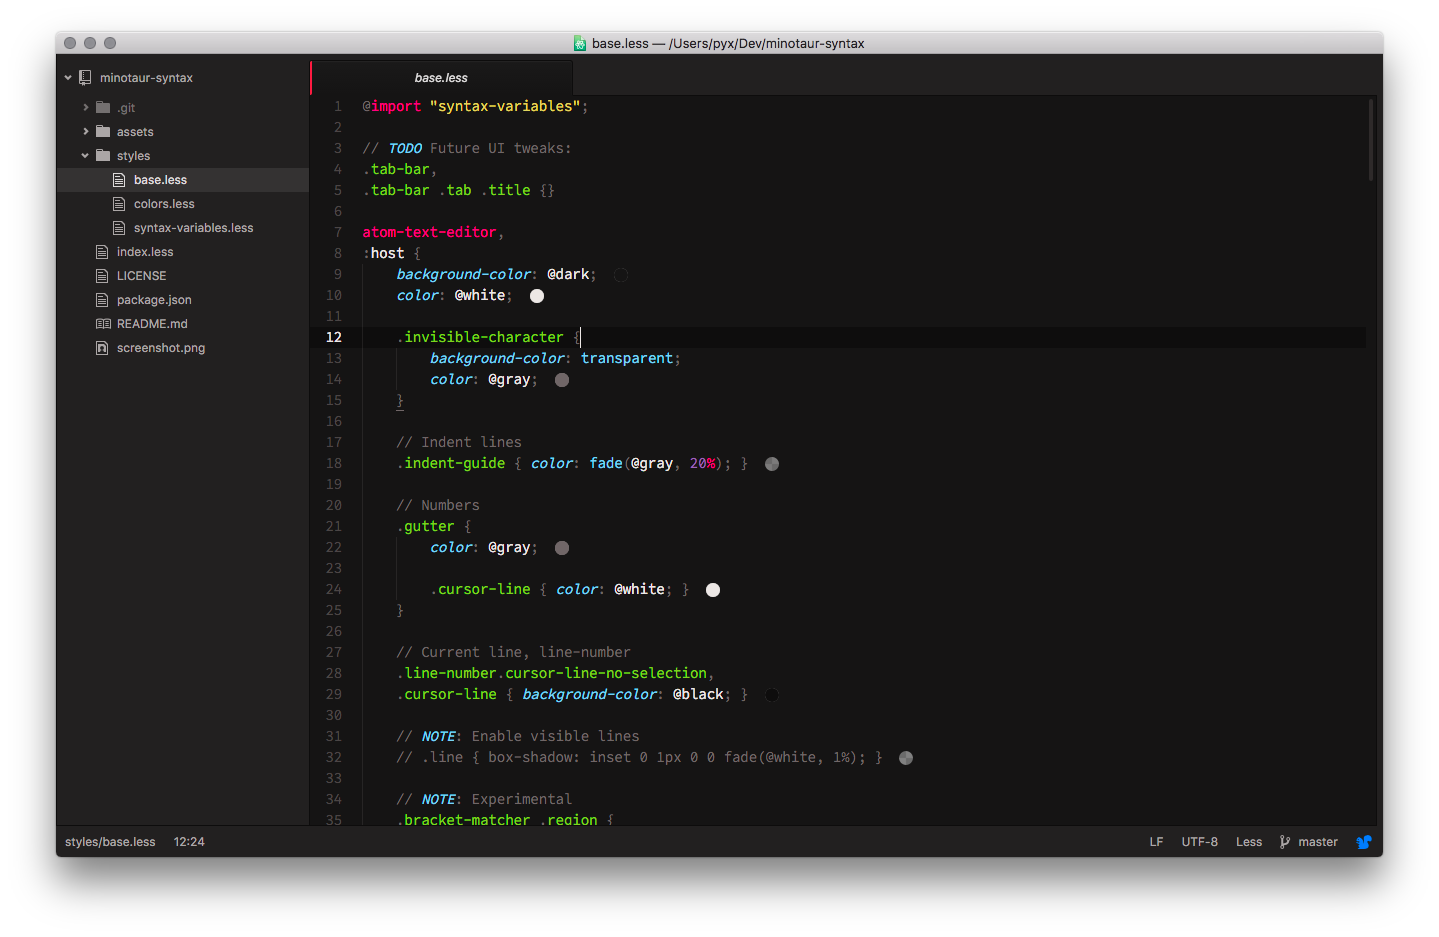
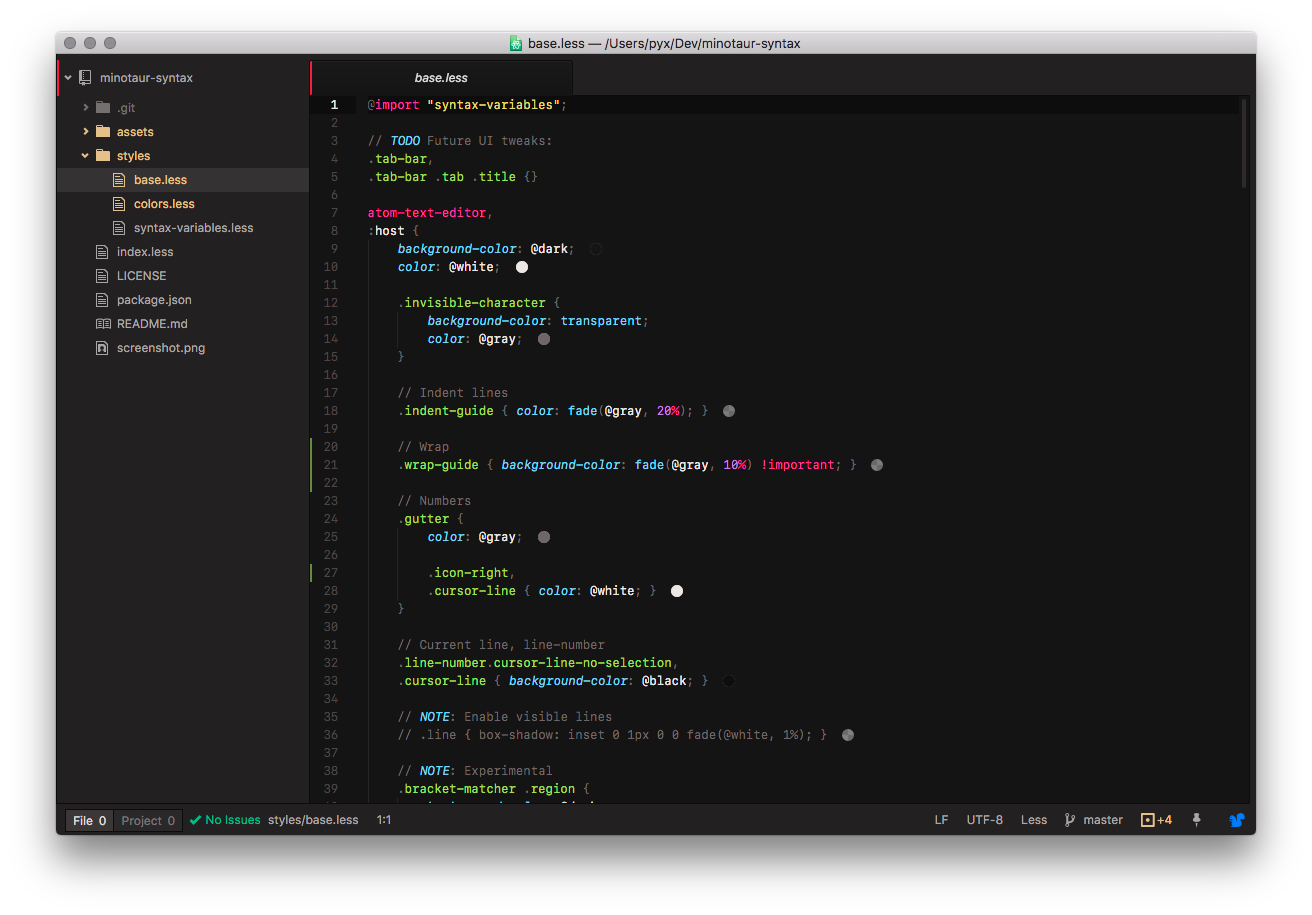
Outrun colors

diff --git a/styles/colors.less b/styles/colors.less
@@ -1,28 +1,11 @@
-// #0E0D0D
-// #151414
-// #6F6767
-// #EBE7E5
-
-// #F34D4B
-// #C33332
-// #94C82B
-// #79B00C
-// #E3D167
-// #E09C51
-// #AD9AC3
-// #9170B5
-// #89D2F2
-// #47B2E1
-// #FF3C86
-
 @white: #EBE7E5;
 @gray: #6F6767;
 @dark: #151414;
 @black: #0E0D0D;
 
-@green-color: #94C82B;
+@green-color: #AED462;
 @blue-color: #89D2F2;
-@purple-color: #9170B5;
-@pink-color: #FF3C86;
+@purple-color: #B58FDF;
+@pink-color: #FD639D;
 @red-color: #F34D4B;
-@yellow-color: #E3D167;
+@yellow-color: #E6D77C;

diff --git a/styles/base.less b/styles/base.less
@@ -17,10 +17,14 @@ atom-text-editor,
 	// Indent lines
 	.indent-guide { color: fade(@gray, 20%); }
 
+	// Wrap
+	.wrap-guide { background-color: fade(@gray, 10%) !important; }
+
 	// Numbers
 	.gutter {
 		color: @gray;
 
+		.icon-right,
 		.cursor-line { color: @white; }
 	}
 
